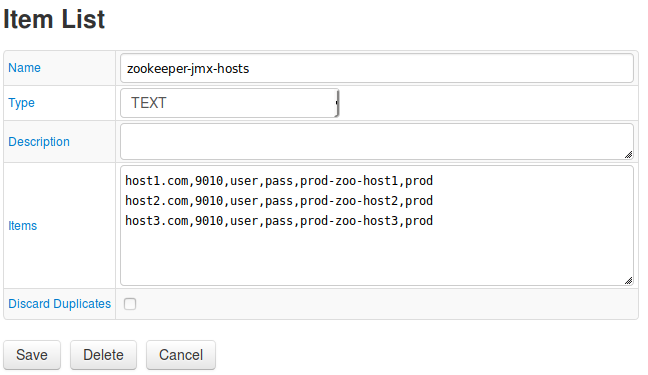
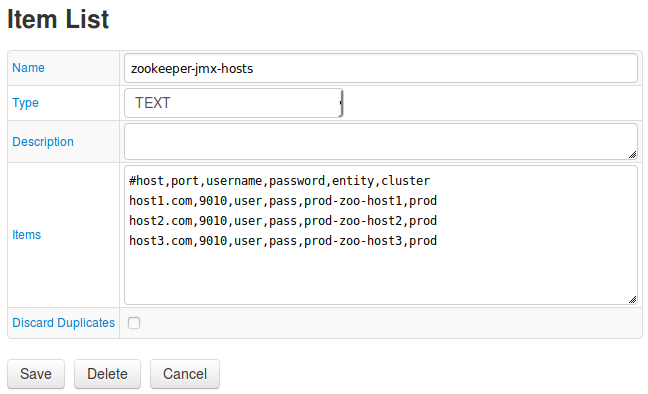
updated collector jobs and rules

diff --git a/integration/zookeeper/README.md b/integration/zookeeper/README.md
@@ -12,7 +12,12 @@ This document describes how to monitor availability and performance of [Apache Z
 
 3) Click `Add` button and create item list with zookeeper hosts. 
 Enter name `zookeeper-jmx-hosts`, choose type `TEXT` and add comma-separated addresses of zookeeper hosts in format:
-`host,port,username,password,entity,cluster`
+```
+#host,port,username,password,entity,cluster
+host1.com,9010,user,pass,prod-zoo-host1,prod
+host2.com,9010,user,pass,prod-zoo-host2,prod
+host3.com,9010,user,pass,prod-zoo-host3,prod
+```
 
    **host** — Zookeeper hostname.  
    **port** — JMX port.  
@@ -20,14 +25,6 @@ Enter name `zookeeper-jmx-hosts`, choose type `TEXT` and add comma-separated add
    **password** — Password for JMX user.  
    **entity** — ATSD entity for zookeeper node.  
    **cluster** — ATSD series tag for indicating that nodes are in the same cluster.
-   
-For example:
-
-```
-host1.com,9010,user,pass,prod-zoo-host1,prod
-host2.com,9010,user,pass,prod-zoo-host2,prod
-host3.com,9010,user,pass,prod-zoo-host3,prod
-```
 
 ![](images/items_list_config.png)
 
@@ -35,24 +32,24 @@ Save changes.
 
 ### Import job
 
-Click the Jobs tab in the top menu and press the Import button.
-1. Import the [zookeeper-jmx](resources/jobs.xml) job.
-2. Locate the `zookeeper-jmx` job in the list of jobs.
-3. Adjust the cron expression if required. For more information on cron expressions, see [Scheduling](https://github.com/axibase/axibase-collector/blob/master/scheduling.md).
-4. Select a target ATSD database for storing data.
-5. Click Save.
+1. Click the Jobs tab in the top menu and press the Import button.
+2. Import the [zookeeper-jmx](resources/jobs.xml) job.
+3. Locate the `zookeeper-jmx` job in the list of jobs.
+4. Adjust the cron expression if required. For more information on cron expressions, see [Scheduling](https://github.com/axibase/axibase-collector/blob/master/scheduling.md).
+5. Select a target ATSD database for storing data.
+6. Click Save.
 
 ![JMX_JOB](images/jmx_job_configuration.png)
 
-6. Test job configurations. Click on `zookeeper-series`.
+7. Test job configurations. Click on `zookeeper-series`.
 If it is required, change default parameters.
 For more information on JMX configuration, see [JMX](https://github.com/axibase/axibase-collector/blob/master/jobs/jmx.md). Click **Test** button
 
 ![](images/jmx_job_series_config.png)
 
-7. Repeat test for `zookeeper-properties`.
+8. Repeat test for `zookeeper-properties`.
 
-8. On the **JMX Job** page set **Enabled** checkbox and save job.
+9. On the **JMX Job** page set **Enabled** checkbox and save job.
 
 ### Check data collection
 
@@ -96,10 +93,11 @@ Go to Metrics page and verify that `jmx.zookeeper.*` metrics are available.
  * `Zookeeper cluster not serving requests` - alert opens when node status is `leaderelection`, which means that nodes cannot choose leader.
  * `Zookeeper dead cluster` - opens when no data was collected from cluster in 2 minutes.
  * `Zookeeper dead node` - opens when no data was collected from a single node in 2 minutes.
+ * `Zookeeper dead nodes list` - same as single dead node, but checks all nodes by timer.
  * `Zookeeper node high latency` - opens when node average latency is above 100 in 3 consecutive measurements.
  * `Zookeeper rate metrics` - always open. Used for transform `packetsreceived` and `packetssent` metrics from cumulative to difference (packets per minute) metrics. Uses derived commands.
 
-3. Verify rules. Stop one node and check that `Zookeeper dead node` rule opens (it may take up to 2 minutes). Go to Alerts - Open Alerts to see all opened rules.
+3. Verify rules. Stop one node and check that `Zookeeper dead node` and `Zookeeper dead nodes list` rule opens (it may take up to 2 minutes). Go to Alerts - Open Alerts to see all opened rules.
 
 ![](images/rule_dead_node_test.png)
 
